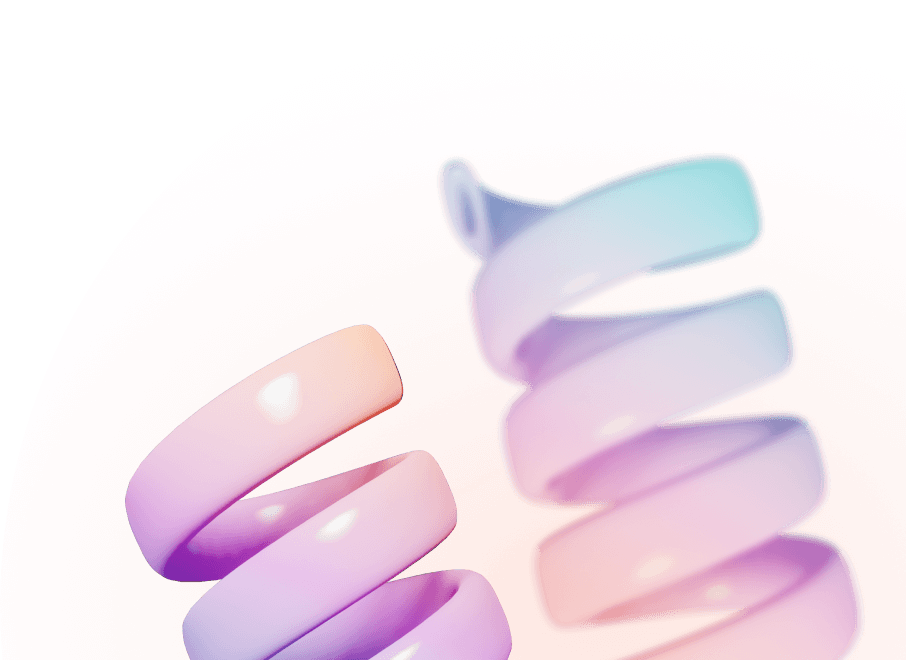
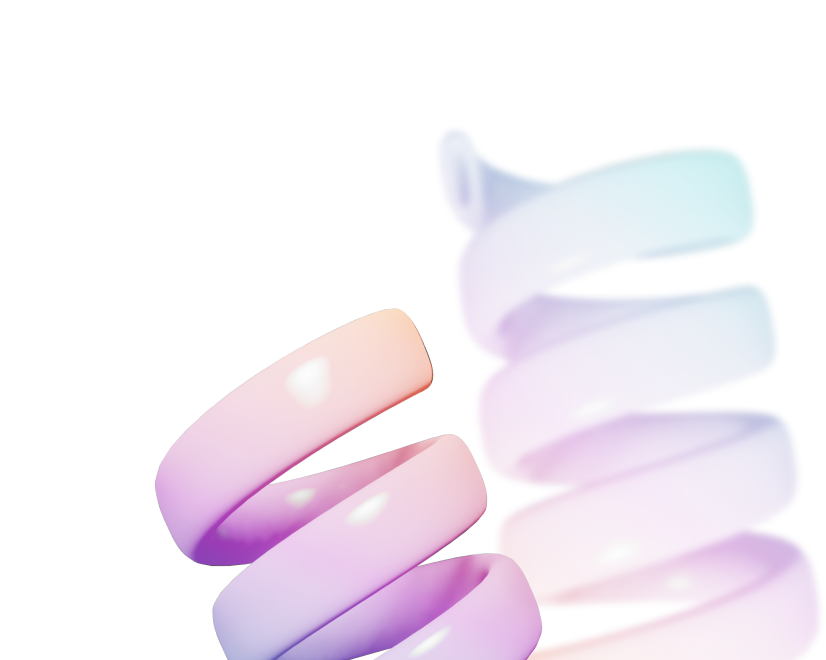
bring the spring back

diff --git a/components/Layout/ExtensionSidebar.tsx b/components/Layout/ExtensionSidebar.tsx
@@ -24,6 +24,7 @@ export const ExtensionSidebar = () => {
       >
         Report an issue
       </Button>
+      <StyledSpringBottom src="/springs-bg.png" />
     </StyledDivForWrapper>
   )
 }
@@ -44,4 +45,15 @@ const StyledDivForTitleWrapper = styled('div', {
   display: 'flex',
   alignItems: 'center',
   columnGap: '$4',
+})
+
+const StyledSpringBottom = styled('img', {
+  position: 'absolute',
+  right: 0,
+  bottom: 0,
+  width: '125%',
+  maxWidth: '500px',
+  zIndex: '$1',
+  userSelect: 'none',
+  userDrag: 'none',
 })
